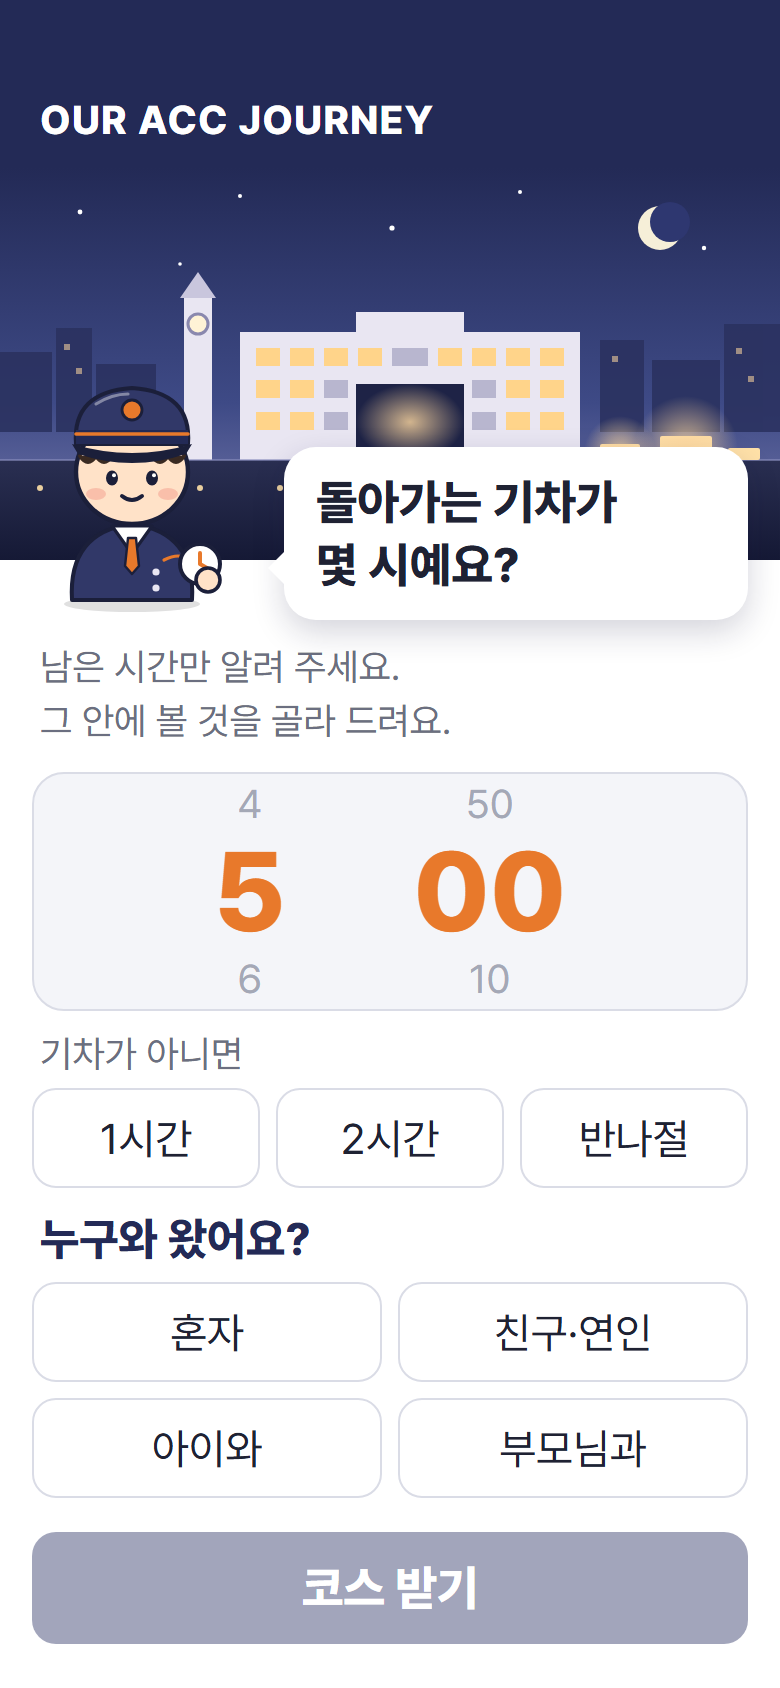
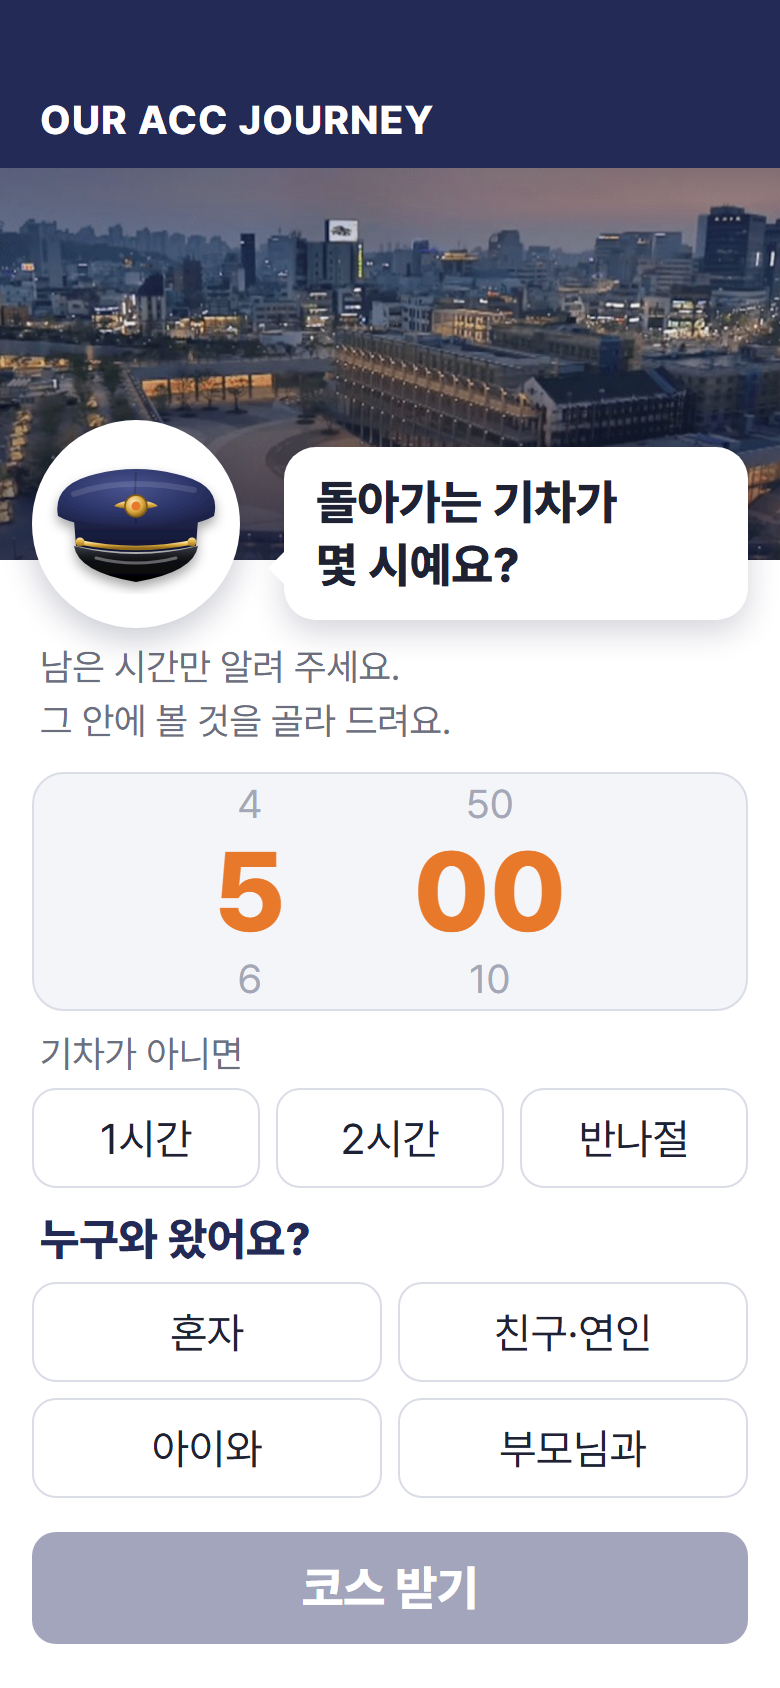
brand: 첫 화면에 ACC 실사 사진 적용, 역무원은 실사풍 모자만

Changed region(s): [[0.0, 0.0924, 1.0, 0.4005]]

diff --git a/brand/screen-draft.html b/brand/screen-draft.html
@@ -5,7 +5,7 @@
 <meta name="viewport" content="width=device-width, initial-scale=1">
 <title>OUR ACC JOURNEY — 첫 화면 시안 (ACC 길라잡이 앱 느낌)</title>
 <!-- 참고: 구글 플레이 'ACC 길라잡이(ACC Guide)' 앱 스크린샷 (2026-11-19 확인) — 짙은 남보라 위쪽 바(#313868), 밤의 ACC 사진을 크게 쓴 첫 화면, 흰 바탕, 가는 선 아이콘, 연한 회색 둥근 버튼.
-     사진은 쓰지 않고 밤의 ACC를 새로 그림 (상상). 화면 글은 팀 brand/service-prompt.md 그대로 -->
+     첫 화면 사진은 ACC 길라잡이 앱 구글 플레이 스크린샷(전당 투어 화면)에서 잘라 씀 — 저작권: 국립아시아문화전당, 팀 시안 확인용. 역무원은 모자만 실사 느낌으로 새로 그림. 화면 글은 팀 brand/service-prompt.md 그대로 -->
 <style>
   :root { --indigo:#313868; --indigo2:#232A56; --ink:#1F2233; --sub:#6B6F80; --line:#DADCE6; --soft:#F4F5F9; --orange:#E8792B; }
   * { box-sizing:border-box; margin:0; padding:0; }
@@ -15,8 +15,10 @@
 
   .bar { background:var(--indigo2); color:#fff; padding:48px 20px 12px; font-size:15pt; font-weight:800; letter-spacing:.6px; }
   .hero { position:relative; height:196px; flex:0 0 auto; }
-  .hero svg.scene { position:absolute; inset:0; width:390px; height:196px; }
-  .hero .who { position:absolute; left:14px; bottom:-26px; }
+  .hero img.scene { position:absolute; inset:0; width:390px; height:196px; object-fit:cover; }
+  .hero .shade { position:absolute; inset:0; background:linear-gradient(180deg,rgba(35,42,86,.35) 0%,rgba(35,42,86,0) 35%,rgba(20,24,56,.55) 100%); }
+  .hero .who { position:absolute; left:16px; bottom:-34px; width:104px; height:104px; border-radius:50%; background:#fff;
+               display:flex; align-items:center; justify-content:center; box-shadow:0 6px 16px rgba(20,24,60,.22); }
   .hero .bubble { position:absolute; right:16px; bottom:-30px; width:232px; background:#fff; border-radius:16px; padding:12px 16px;
                   font-size:18pt; font-weight:800; line-height:1.3; word-break:keep-all; box-shadow:0 6px 16px rgba(20,24,60,.18); }
   .hero .bubble::before { content:""; position:absolute; left:-8px; bottom:18px; border:8px solid transparent; border-right-color:#fff; border-left:0; }
@@ -44,78 +46,40 @@
 
   <!-- 첫 화면 그림: 밤의 ACC (상상) — 1번 게이트 건물(가운데 큰 통로) · 시계탑 · 땅 아래 광장 불빛 · 채광창 -->
   <div class="hero">
-    <svg class="scene" viewBox="0 0 390 196" aria-hidden="true">
-      <defs>
-        <linearGradient id="night" x1="0" y1="0" x2="0" y2="1"><stop offset="0" stop-color="#232A56"/><stop offset=".6" stop-color="#3E4A86"/><stop offset="1" stop-color="#7C7FB0"/></linearGradient>
-        <linearGradient id="plaza" x1="0" y1="0" x2="0" y2="1"><stop offset="0" stop-color="#2A2F52"/><stop offset="1" stop-color="#151935"/></linearGradient>
-        <radialGradient id="glow" cx=".5" cy=".5" r=".5"><stop offset="0" stop-color="#FFD9A0" stop-opacity=".8"/><stop offset="1" stop-color="#FFD9A0" stop-opacity="0"/></radialGradient>
-      </defs>
-      <rect width="390" height="196" fill="url(#night)"/>
-      <!-- 별 · 달 -->
-      <g fill="#fff"><circle cx="40" cy="22" r="1.2"/><circle cx="120" cy="14" r="1"/><circle cx="196" cy="30" r="1.3"/><circle cx="260" cy="12" r="1"/><circle cx="90" cy="48" r="0.9"/><circle cx="352" cy="40" r="1.1"/></g>
-      <circle cx="330" cy="30" r="11" fill="#F6EFD8"/><circle cx="335" cy="27" r="10" fill="#2E3770"/>
-      <!-- 먼 도시 -->
-      <g fill="#2B3260" opacity=".9">
-        <rect x="0" y="92" width="26" height="40"/><rect x="28" y="80" width="18" height="52"/><rect x="48" y="98" width="30" height="34"/><rect x="300" y="86" width="22" height="46"/><rect x="326" y="96" width="34" height="36"/><rect x="362" y="78" width="28" height="54"/>
-      </g>
-      <g fill="#FFD9A0" opacity=".55"><rect x="32" y="88" width="3" height="3"/><rect x="38" y="100" width="3" height="3"/><rect x="306" y="94" width="3" height="3"/><rect x="368" y="90" width="3" height="3"/><rect x="374" y="104" width="3" height="3"/></g>
-      <!-- 1번 게이트 건물 -->
-      <g transform="translate(120 70)">
-        <rect x="0" y="12" width="170" height="64" fill="#E9E6F2"/>
-        <rect x="58" y="2" width="54" height="11" fill="#E9E6F2"/>
-        <g fill="#FFD48A">
-          <rect x="8" y="20" width="12" height="9"/><rect x="25" y="20" width="12" height="9"/><rect x="42" y="20" width="12" height="9"/><rect x="59" y="20" width="12" height="9"/><rect x="99" y="20" width="12" height="9"/><rect x="116" y="20" width="12" height="9"/><rect x="133" y="20" width="12" height="9"/><rect x="150" y="20" width="12" height="9"/>
-          <rect x="8" y="36" width="12" height="9"/><rect x="25" y="36" width="12" height="9"/><rect x="133" y="36" width="12" height="9"/><rect x="150" y="36" width="12" height="9"/>
-          <rect x="8" y="52" width="12" height="9"/><rect x="25" y="52" width="12" height="9"/><rect x="133" y="52" width="12" height="9"/><rect x="150" y="52" width="12" height="9"/>
-        </g>
-        <g fill="#B8B6CF"><rect x="42" y="36" width="12" height="9"/><rect x="116" y="36" width="12" height="9"/><rect x="42" y="52" width="12" height="9"/><rect x="116" y="52" width="12" height="9"/><rect x="76" y="20" width="18" height="9"/></g>
-        <rect x="58" y="38" width="54" height="38" fill="#1E2346"/>
-        <rect x="58" y="38" width="54" height="38" fill="url(#glow)"/>
-      </g>
-      <!-- 시계탑 -->
-      <g transform="translate(92 52)">
-        <rect x="0" y="12" width="14" height="82" fill="#E9E6F2"/>
-        <path d="M-2 13 L7 0 L16 13 Z" fill="#C9C6DD"/>
-        <circle cx="7" cy="26" r="5" fill="#FFF3D6" stroke="#8A88AE" stroke-width="1.5"/>
-      </g>
-      <!-- 땅 · 광장 -->
-      <rect x="0" y="146" width="390" height="50" fill="url(#plaza)"/>
-      <path d="M0 146 H390" stroke="#8C90C0" stroke-width="1" opacity=".6"/>
-      <!-- 채광창 불빛 -->
-      <g fill="#FFE1A8"><rect x="300" y="138" width="20" height="8" rx="1"/><rect x="330" y="134" width="26" height="12" rx="1"/><rect x="364" y="140" width="16" height="6" rx="1"/></g>
-      <g fill="url(#glow)"><circle cx="343" cy="140" r="26"/><circle cx="310" cy="142" r="18"/></g>
-      <!-- 바닥 조명 줄 -->
-      <g fill="#FFE1A8" opacity=".9"><circle cx="20" cy="160" r="1.5"/><circle cx="60" cy="160" r="1.5"/><circle cx="100" cy="160" r="1.5"/><circle cx="140" cy="160" r="1.5"/><circle cx="180" cy="160" r="1.5"/><circle cx="220" cy="160" r="1.5"/><circle cx="260" cy="160" r="1.5"/></g>
-    </svg>
+    <img class="scene" src="screen-draft-hero.jpg" alt="">
+    <div class="shade"></div>
 
-    <!-- ACC 역무원 (상상): 남보라 모자·제복, 깔끔한 선, 회중시계 -->
-    <svg class="who" width="104" height="124" viewBox="0 0 104 124" stroke-linejoin="round" stroke-linecap="round">
-      <ellipse cx="52" cy="120" rx="34" ry="4" fill="#000" opacity=".12"/>
-      <!-- 몸 -->
-      <path d="M22 118 Q20 84 52 80 Q84 84 82 118 Z" fill="#313868" stroke="#1B1F3A" stroke-width="2"/>
-      <path d="M42 81 L52 95 L62 81 Z" fill="#fff" stroke="#1B1F3A" stroke-width="1.6"/>
-      <path d="M50 87 H54 L55.5 101 L52 105 L48.5 101 Z" fill="#E8792B" stroke="#1B1F3A" stroke-width="1.2"/>
-      <circle cx="64" cy="104" r="1.8" fill="#E9E6F2"/><circle cx="64" cy="112" r="1.8" fill="#E9E6F2"/>
-      <!-- 회중시계 -->
-      <path d="M68 98 Q76 94 80 98" fill="none" stroke="#E8792B" stroke-width="1.6"/>
-      <circle cx="86" cy="100" r="10" fill="#fff" stroke="#1B1F3A" stroke-width="2"/>
-      <path d="M86 100 V94.5 M86 100 L89.5 102" stroke="#E8792B" stroke-width="2"/>
-      <circle cx="90" cy="108" r="6" fill="#FFE2C8" stroke="#1B1F3A" stroke-width="1.8"/>
-      <!-- 얼굴 -->
-      <ellipse cx="52" cy="54" rx="28" ry="26" fill="#FFE2C8" stroke="#1B1F3A" stroke-width="2.2"/>
-      <path d="M26 46 Q30 52 34 46 Q38 52 42 46 M62 46 Q66 52 70 46 Q74 52 78 46" fill="#3A2A22" stroke="#3A2A22" stroke-width="2"/>
-      <ellipse cx="42" cy="57" rx="3" ry="3.8" fill="#1B1F3A"/><ellipse cx="62" cy="57" rx="3" ry="3.8" fill="#1B1F3A"/>
-      <circle cx="43" cy="55.6" r="1" fill="#fff"/><circle cx="63" cy="55.6" r="1" fill="#fff"/>
-      <ellipse cx="34" cy="65" rx="5" ry="3" fill="#F39C8B" opacity=".5"/><ellipse cx="70" cy="65" rx="5" ry="3" fill="#F39C8B" opacity=".5"/>
-      <path d="M47 66 Q52 70 57 66" fill="none" stroke="#1B1F3A" stroke-width="2"/>
-      <!-- 역무원 모자 -->
-      <path d="M24 40 Q22 14 52 12 Q82 14 80 40 Z" fill="#313868" stroke="#1B1F3A" stroke-width="2"/>
-      <rect x="24" y="33" width="56" height="7" fill="#232A56"/>
-      <path d="M24 35 H80" stroke="#E8792B" stroke-width="1.8"/>
-      <path d="M22 40 Q52 49 82 40 L79 45 Q52 54 25 45 Z" fill="#1B1F3A"/>
-      <circle cx="52" cy="23" r="5" fill="#E8792B" stroke="#1B1F3A" stroke-width="1.4"/>
-      <path d="M34 20 Q42 15 50 15" fill="none" stroke="#fff" stroke-width="1.6" opacity=".4"/>
-    </svg>
+    <div class="who">
+      <!-- 역무원 모자 (실사 느낌, 새로 그림): 남색 천 크라운 · 검은 광택 챙 · 금색 끈 · 휘장 -->
+      <svg width="92" height="70" viewBox="0 0 184 140" stroke-linejoin="round">
+        <defs>
+          <radialGradient id="crown" cx=".45" cy=".3" r=".8"><stop offset="0" stop-color="#4A5490"/><stop offset=".55" stop-color="#2B3366"/><stop offset="1" stop-color="#161B3A"/></radialGradient>
+          <linearGradient id="band" x1="0" y1="0" x2="0" y2="1"><stop offset="0" stop-color="#1E2448"/><stop offset="1" stop-color="#0F1330"/></linearGradient>
+          <linearGradient id="visor" x1="0" y1="0" x2="0" y2="1"><stop offset="0" stop-color="#3A3D48"/><stop offset=".35" stop-color="#121318"/><stop offset="1" stop-color="#000"/></linearGradient>
+          <linearGradient id="gold" x1="0" y1="0" x2="0" y2="1"><stop offset="0" stop-color="#FFE7A3"/><stop offset=".5" stop-color="#D9A83E"/><stop offset="1" stop-color="#8F6A1E"/></linearGradient>
+          <radialGradient id="emb" cx=".4" cy=".35" r=".7"><stop offset="0" stop-color="#FFF1C2"/><stop offset=".6" stop-color="#D9A83E"/><stop offset="1" stop-color="#7E5A16"/></radialGradient>
+          <filter id="soft" x="-20%" y="-20%" width="140%" height="160%"><feDropShadow dx="0" dy="6" stdDeviation="6" flood-color="#000" flood-opacity=".35"/></filter>
+        </defs>
+        <g filter="url(#soft)">
+          <!-- 크라운 (위가 넓은 천) -->
+          <path d="M14 62 Q8 30 52 20 Q92 10 132 20 Q178 30 170 62 Q150 74 92 76 Q34 74 14 62 Z" fill="url(#crown)"/>
+          <path d="M30 40 Q80 22 150 36" fill="none" stroke="#fff" stroke-opacity=".12" stroke-width="6" stroke-linecap="round"/>
+          <path d="M92 18 Q90 46 92 70" fill="none" stroke="#000" stroke-opacity=".18" stroke-width="2"/>
+          <!-- 띠 -->
+          <path d="M30 66 Q92 80 154 66 L152 92 Q92 104 32 92 Z" fill="url(#band)"/>
+          <!-- 금색 끈 -->
+          <path d="M34 88 Q92 100 150 88" fill="none" stroke="url(#gold)" stroke-width="4.5" stroke-linecap="round"/>
+          <circle cx="36" cy="88" r="4.5" fill="url(#gold)"/><circle cx="148" cy="88" r="4.5" fill="url(#gold)"/>
+          <!-- 챙 (광택) -->
+          <path d="M30 92 Q92 108 154 92 Q150 118 92 128 Q34 118 30 92 Z" fill="url(#visor)"/>
+          <path d="M52 104 Q92 114 132 104" fill="none" stroke="#fff" stroke-opacity=".35" stroke-width="3" stroke-linecap="round"/>
+          <!-- 휘장 -->
+          <path d="M70 52 Q80 44 92 50 Q104 44 114 52 Q104 56 92 54 Q80 56 70 52 Z" fill="url(#gold)"/>
+          <circle cx="92" cy="52" r="11" fill="url(#emb)" stroke="#7E5A16" stroke-width="1.5"/>
+          <circle cx="92" cy="52" r="4.5" fill="#E8792B"/>
+        </g>
+      </svg>
+    </div>
 
     <div class="bubble">돌아가는 기차가<br>몇 시예요?</div>
   </div>

diff --git a/research.md b/research.md
@@ -89,3 +89,4 @@
 - 2026-11-19 첫 화면 배경 (screen-draft.png): 위쪽 남색 바에 ACC 외관 일러스트를 직접 그려 넣음 (상상, 글 없음) — 1번 게이트 건물(흰 건물·창 격자·가운데 큰 통로, ACC 공간안내 1번 게이트 사진 참고), 시계탑, 땅 아래 아시아문화광장, 지붕 채광창, 나무, 해. 색 3가지만. 처음엔 화면 아래 배경으로 넣었으나 버튼에 가려 위쪽 바로 옮김. 키워드 추가: ACC 외관 일러스트, 1번 게이트, 시계탑
 - 2026-11-19 첫 화면 겨울 테마 시안 (brand/screen-draft.html → screen-draft.png): 박대식이 보낸 카카오톡 겨울 테마 스크린샷 2장의 분위기만 참고 — 옅은 하늘색 바탕, 눈송이, 눈 덮인 언덕·나무, 둥근 알약 버튼, 반투명 흰 카드, 굵은 검정 제목. 캐릭터는 통통한 2등신·동그란 얼굴·점 눈·볼터치에 역무원 모자·주황 목도리·회중시계로 새로 그림 (상상, 카카오 캐릭터를 따라 그리지 않음). 배경 언덕에 ACC 1번 게이트 건물·시계탑·채광창. 화면 글은 팀 service-prompt.md 그대로. 팀 색 3가지 규칙과 다름(하늘색·흰색·검정 추가) → 팀 확인 필요. 구글 플레이 링크(com.kakao.talk.theme.winterstory)는 404. 키워드 추가: 겨울 테마, 카카오톡 테마, 알약 버튼
 - 2026-11-19 첫 화면 시안을 ACC 공식 앱 'ACC 길라잡이(ACC Guide)' 느낌으로 변경 (brand/screen-draft.html/png). 참고: https://play.google.com/store/apps/details?id=kr.go.acc.andapp 스크린샷 — 짙은 남보라 위쪽 바(#232A56·#313868, 스크린샷에서 색 추출), 밤의 ACC 사진 첫 화면, 흰 바탕, 가는 선, 연한 회색 둥근 버튼. 사진 대신 밤의 ACC를 새로 그림(1번 게이트 건물·시계탑·광장 불빛, 상상). 역무원 캐릭터는 남보라 제복으로 다시 그림. 주황은 시간 숫자·넥타이·휘장에만. 앱 기능(전당일정·자동안내·경로찾기·증강현실·전당투어)도 설명에서 확인. 키워드 추가: ACC 길라잡이, 공식 앱, 전당투어, 경로찾기
+- 2026-11-19 첫 화면 시안 수정 (screen-draft.html/png, screen-draft-hero.jpg): 위쪽 그림을 ACC 길라잡이 앱 구글 플레이 스크린샷 '전당 투어' 화면의 밤 ACC 사진(광장·건물 조명)으로 바꿈 — 스크린샷에서 잘라 씀(810×394). 저작권 국립아시아문화전당, 공공누리 표시 미확인 → 팀 시안 확인용으로만, 외부 공개 전 허락 필요. 역무원 캐릭터는 얼굴·몸을 빼고 모자만 실사 느낌(천 크라운·광택 챙·금색 끈·휘장)으로 새로 그려 흰 원 안에 넣음
